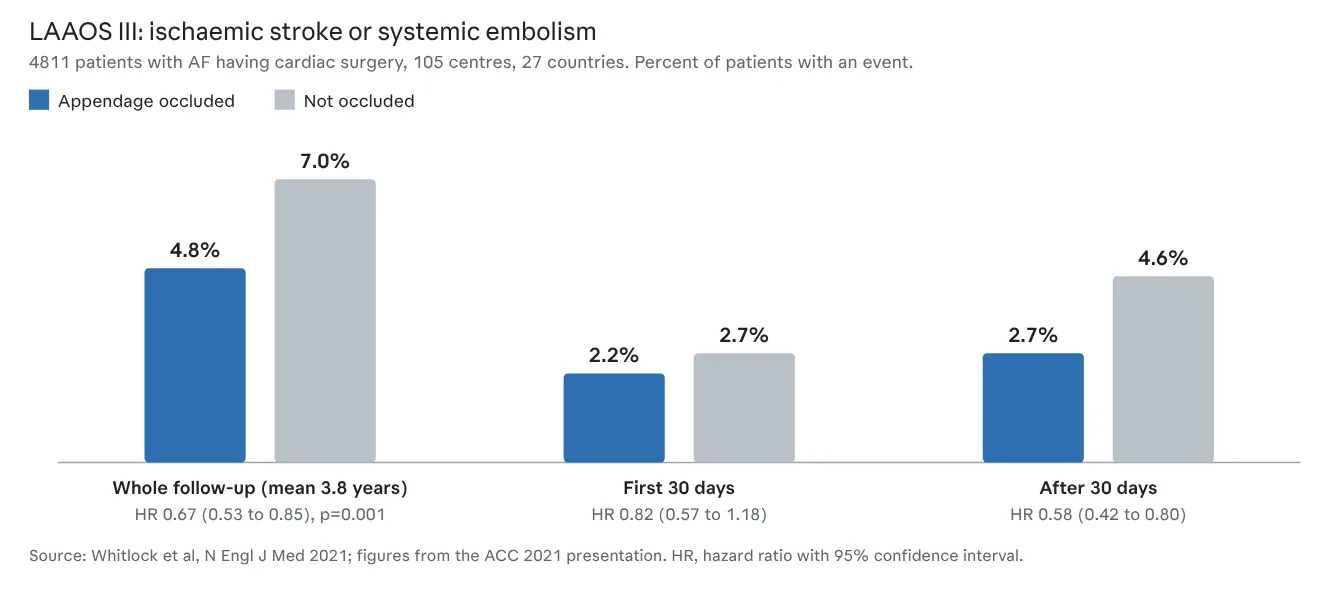
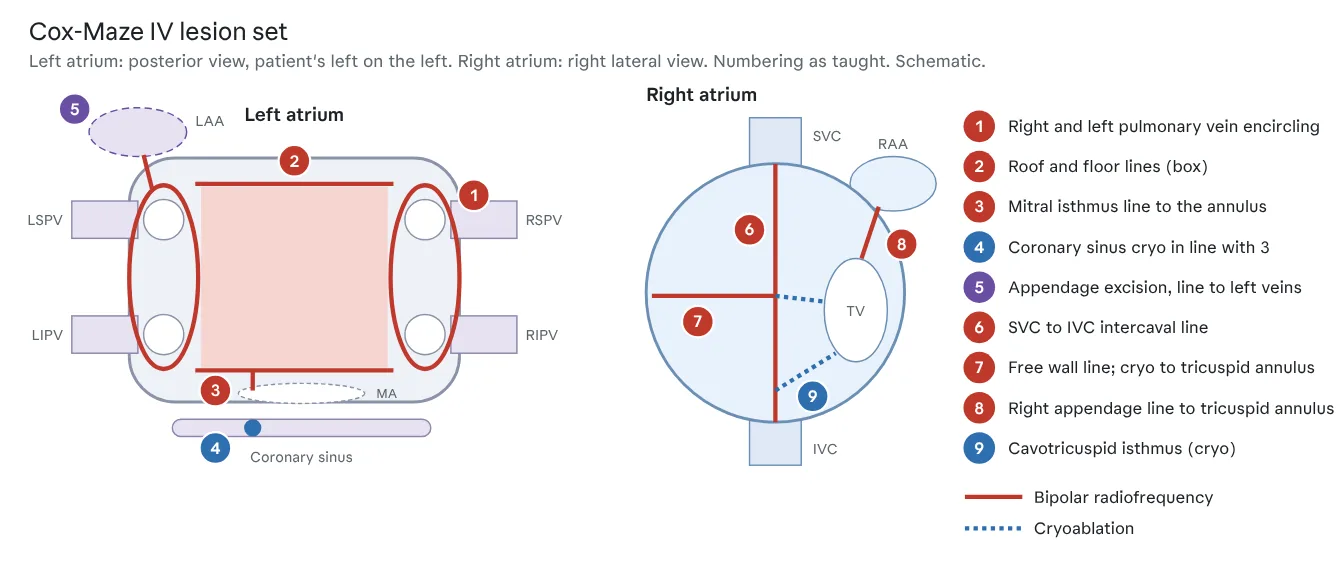
ST4 app: Cox-Maze IV drawing and slide notes, LAAOS III
Claude-Session: https://claude.ai/code/session_01Rh3NCGU1qAttPZ8CRZtk9w

diff --git a/st4/index.html b/st4/index.html
@@ -11553,6 +11553,96 @@ mark{background:var(--hit);color:inherit;border-radius:2px}
 
 </table></div>
 <figure><img loading="lazy" src="img/c2-3.webp" width="1344" height="486" alt="Surgical AF lesion sets: pulmonary vein isolation, box lesion, left atrial maze, and the right atrial lesions added in a biatrial Cox-Maze IV (my own schematic, after the session slides)"><figcaption>Surgical AF lesion sets: pulmonary vein isolation, box lesion, left atrial maze, and the right atrial lesions added in a biatrial Cox-Maze IV (my own schematic, after the session slides)</figcaption></figure>
+<h3 id="c2--cox-maze-iv-in-detail-as-taught-slides-18-november-2026">Cox-Maze IV in detail (as taught, slides 18 November 2026)</h3>
+<p>Cox-Maze IV combines the box with mitral, appendage and right atrial lines.</p>
+<figure><img loading="lazy" src="img/c2-4.webp" width="1344" height="588" alt="Cox-Maze IV: the nine lesions as numbered in the session, radiofrequency in red and cryoablation in blue (my own schematic)"><figcaption>Cox-Maze IV: the nine lesions as numbered in the session, radiofrequency in red and cryoablation in blue (my own schematic)</figcaption></figure>
+<div class="tw"><table>
+
+
+<tr>
+<th>No.</th>
+<th>Lesion</th>
+<th>Energy</th>
+</tr>
+
+
+<tr>
+<td>1</td>
+<td>Right and left pulmonary vein encircling</td>
+<td>Bipolar radiofrequency</td>
+</tr>
+<tr>
+<td>2</td>
+<td>Roof and floor lines, completing the box</td>
+<td>Bipolar radiofrequency</td>
+</tr>
+<tr>
+<td>3</td>
+<td>Mitral isthmus line to the annulus</td>
+<td>Bipolar radiofrequency</td>
+</tr>
+<tr>
+<td>4</td>
+<td>Coronary sinus lesion in line with 3</td>
+<td>Cryo</td>
+</tr>
+<tr>
+<td>5</td>
+<td>Left atrial appendage excision, with a line to the left pulmonary veins</td>
+<td>Bipolar radiofrequency</td>
+</tr>
+<tr>
+<td>6</td>
+<td>Superior to inferior vena cava intercaval line</td>
+<td>Bipolar radiofrequency</td>
+</tr>
+<tr>
+<td>7</td>
+<td>Right atrial free wall line, finished to the tricuspid annulus</td>
+<td>Radiofrequency, then cryo at the annulus</td>
+</tr>
+<tr>
+<td>8</td>
+<td>Right atrial appendage line to the tricuspid annulus</td>
+<td>Bipolar radiofrequency</td>
+</tr>
+<tr>
+<td>9</td>
+<td>Cavotricuspid isthmus</td>
+<td>Cryo</td>
+</tr>
+
+</table></div>
+<p>The lesion set has three components that must each be transmural (as taught):</p>
+<div class="tw"><table>
+
+
+<tr>
+<th>Component</th>
+<th>Lesions</th>
+<th>Key pitfalls</th>
+</tr>
+
+
+<tr>
+<td>Left atrium</td>
+<td>Pulmonary vein box, mitral isthmus with coronary sinus cryo, appendage line and amputation</td>
+<td>Gaps in the box or mitral line (may lead to atrial flutter); circumflex injury</td>
+</tr>
+<tr>
+<td>Right atrium</td>
+<td>Superior to inferior caval line, free wall, cavotricuspid isthmus, right atrial appendage</td>
+<td>Sinus node and phrenic nerve injury</td>
+</tr>
+<tr>
+<td>Energy and testing</td>
+<td>Bipolar radiofrequency clamp for lines; cryoprobe at the annuli</td>
+<td>Unconfirmed block; failed posterior isolation</td>
+</tr>
+
+</table></div>
+<p>Slide sources given: EHRA/HRS/APHRS/LAHRS 2024 consensus and ESC/EACTS 2024 guideline. The consensus text I read supports testing for block and the importance of posterior wall isolation (see its section 12 table below); I did not find the nine-lesion numbering in it, so treat the numbering as the faculty's teaching scheme.</p>
+<p>A slide headed "LAAOS III: LAA closure now ... AF patients having surgery" ("The trial", "The result") was shown; its body was not legible in the photo. The trial is written up from the published sources at the end of this tab.</p>
 <h3 id="c2--esc-eacts-2024-the-framework">ESC/EACTS 2024: the framework</h3>
 <div class="tw"><table>
 
@@ -11854,7 +11944,7 @@ mark{background:var(--hit);color:inherit;border-radius:2px}
 </table></div>
 <h2 id="c2--laaos-iii-left-atrial-appendage-occlusion-during-cardiac-sur">LAAOS III: left atrial appendage occlusion during cardiac surgery</h2>
 <p>Added 18 November 2026. Whitlock RP et al, N Engl J Med 2021;384:2081 (doi 10.1056/NEJMoa2101897). I read the abstract, the investigators' ACC 2021 slides and two conference reports, not the full paper.</p>
-<figure><img loading="lazy" src="img/c2-4.webp" width="1344" height="592" alt="LAAOS III primary outcome, overall and by period (my own chart from the published figures)"><figcaption>LAAOS III primary outcome, overall and by period (my own chart from the published figures)</figcaption></figure>
+<figure><img loading="lazy" src="img/c2-5.webp" width="1344" height="592" alt="LAAOS III primary outcome, overall and by period (my own chart from the published figures)"><figcaption>LAAOS III primary outcome, overall and by period (my own chart from the published figures)</figcaption></figure>
 <div class="tw"><table>
 
 

diff --git a/st4/sw.js b/st4/sw.js
@@ -1,5 +1,5 @@
-const CACHE='st4-867df9dfcb';
-const ASSETS=["./", "index.html", "manifest.webmanifest", "apple-touch-icon.png", "icon-192.png", "icon-512.png", "img/t1-1.webp", "img/t1-2.webp", "img/t1-3.webp", "img/t1-4.webp", "img/t1-5.webp", "img/t2-1.webp", "img/t2-2.webp", "img/t2-3.webp", "img/t2-4.webp", "img/t2-5.webp", "img/t2-6.webp", "img/t3-1.webp", "img/t3-2.webp", "img/t4-1.webp", "img/t4-2.webp", "img/t4-3.webp", "img/t4-4.webp", "img/t4-5.webp", "img/t5-1.webp", "img/t5-2.webp", "img/t5-3.webp", "img/t5-4.webp", "img/t6-1.webp", "img/t7-1.webp", "img/t7-2.webp", "img/t7-3.webp", "img/t7-4.webp", "img/t9-1.webp", "img/t9-2.webp", "img/t9-3.webp", "img/t9-4.webp", "img/t9-5.webp", "img/t9-6.webp", "img/t9-7.webp", "img/t9-8.webp", "img/t9-9.webp", "img/t9-10.webp", "img/t9-11.webp", "img/t9-12.webp", "img/t9-13.webp", "img/t9-14.webp", "img/t9-15.webp", "img/t9-16.webp", "img/t9-17.webp", "img/t9-18.webp", "img/cardiac-1.webp", "img/cardiac-2.webp", "img/cardiac-3.webp", "img/cardiac-4.webp", "img/cardiac-5.webp", "img/c1-1.webp", "img/c1-2.webp", "img/c1-3.webp", "img/c1-4.webp", "img/c1-5.webp", "img/c1-6.webp", "img/c1-7.webp", "img/c1-8.webp", "img/c1-9.webp", "img/c1-10.webp", "img/c1-11.webp", "img/c1-12.webp", "img/c1-13.webp", "img/c1-14.webp", "img/c1-15.webp", "img/c1-16.webp", "img/c1-17.webp", "img/c1-18.webp", "img/c1-19.webp", "img/c1-20.webp", "img/c1-21.webp", "img/c1-22.webp", "img/c2-1.webp", "img/c2-2.webp", "img/c2-3.webp", "img/c2-4.webp", "img/c3-1.webp", "img/c3-2.webp", "img/c3-3.webp", "img/c4-1.webp", "img/c4-2.webp", "img/c4-3.webp", "img/c4-4.webp", "img/c4-5.webp", "img/c4-6.webp", "img/c4-7.webp", "img/c4-8.webp", "img/c4-9.webp", "img/c4-10.webp", "img/c4-11.webp", "img/c4-12.webp", "img/c4-13.webp", "img/c4-14.webp", "img/c4-15.webp", "img/c4-16.webp", "img/c4-17.webp", "img/c4-18.webp", "img/c4-19.webp", "img/c4-20.webp", "img/c4-21.webp", "img/c4-22.webp", "img/c4-23.webp", "img/c4-24.webp", "img/c4-25.webp", "img/c5-1.webp", "img/c5-2.webp", "img/c5-3.webp", "img/g2-1.webp", "img/g2-2.webp", "img/g2-3.webp", "img/g3-1.webp"];
+const CACHE='st4-f07984cf52';
+const ASSETS=["./", "index.html", "manifest.webmanifest", "apple-touch-icon.png", "icon-192.png", "icon-512.png", "img/t1-1.webp", "img/t1-2.webp", "img/t1-3.webp", "img/t1-4.webp", "img/t1-5.webp", "img/t2-1.webp", "img/t2-2.webp", "img/t2-3.webp", "img/t2-4.webp", "img/t2-5.webp", "img/t2-6.webp", "img/t3-1.webp", "img/t3-2.webp", "img/t4-1.webp", "img/t4-2.webp", "img/t4-3.webp", "img/t4-4.webp", "img/t4-5.webp", "img/t5-1.webp", "img/t5-2.webp", "img/t5-3.webp", "img/t5-4.webp", "img/t6-1.webp", "img/t7-1.webp", "img/t7-2.webp", "img/t7-3.webp", "img/t7-4.webp", "img/t9-1.webp", "img/t9-2.webp", "img/t9-3.webp", "img/t9-4.webp", "img/t9-5.webp", "img/t9-6.webp", "img/t9-7.webp", "img/t9-8.webp", "img/t9-9.webp", "img/t9-10.webp", "img/t9-11.webp", "img/t9-12.webp", "img/t9-13.webp", "img/t9-14.webp", "img/t9-15.webp", "img/t9-16.webp", "img/t9-17.webp", "img/t9-18.webp", "img/cardiac-1.webp", "img/cardiac-2.webp", "img/cardiac-3.webp", "img/cardiac-4.webp", "img/cardiac-5.webp", "img/c1-1.webp", "img/c1-2.webp", "img/c1-3.webp", "img/c1-4.webp", "img/c1-5.webp", "img/c1-6.webp", "img/c1-7.webp", "img/c1-8.webp", "img/c1-9.webp", "img/c1-10.webp", "img/c1-11.webp", "img/c1-12.webp", "img/c1-13.webp", "img/c1-14.webp", "img/c1-15.webp", "img/c1-16.webp", "img/c1-17.webp", "img/c1-18.webp", "img/c1-19.webp", "img/c1-20.webp", "img/c1-21.webp", "img/c1-22.webp", "img/c2-1.webp", "img/c2-2.webp", "img/c2-3.webp", "img/c2-4.webp", "img/c2-5.webp", "img/c3-1.webp", "img/c3-2.webp", "img/c3-3.webp", "img/c4-1.webp", "img/c4-2.webp", "img/c4-3.webp", "img/c4-4.webp", "img/c4-5.webp", "img/c4-6.webp", "img/c4-7.webp", "img/c4-8.webp", "img/c4-9.webp", "img/c4-10.webp", "img/c4-11.webp", "img/c4-12.webp", "img/c4-13.webp", "img/c4-14.webp", "img/c4-15.webp", "img/c4-16.webp", "img/c4-17.webp", "img/c4-18.webp", "img/c4-19.webp", "img/c4-20.webp", "img/c4-21.webp", "img/c4-22.webp", "img/c4-23.webp", "img/c4-24.webp", "img/c4-25.webp", "img/c5-1.webp", "img/c5-2.webp", "img/c5-3.webp", "img/g2-1.webp", "img/g2-2.webp", "img/g2-3.webp", "img/g3-1.webp"];
 self.addEventListener('install',e=>{e.waitUntil(caches.open(CACHE).then(async c=>{await c.addAll(ASSETS.slice(0,6));await Promise.allSettled(ASSETS.slice(6).map(a=>c.add(a)));}).then(()=>self.skipWaiting()));});
 self.addEventListener('activate',e=>{e.waitUntil(caches.keys().then(ks=>Promise.all(ks.filter(k=>k.startsWith('st4-')&&k!==CACHE).map(k=>caches.delete(k)))).then(()=>self.clients.claim()));});
 self.addEventListener('fetch',e=>{
